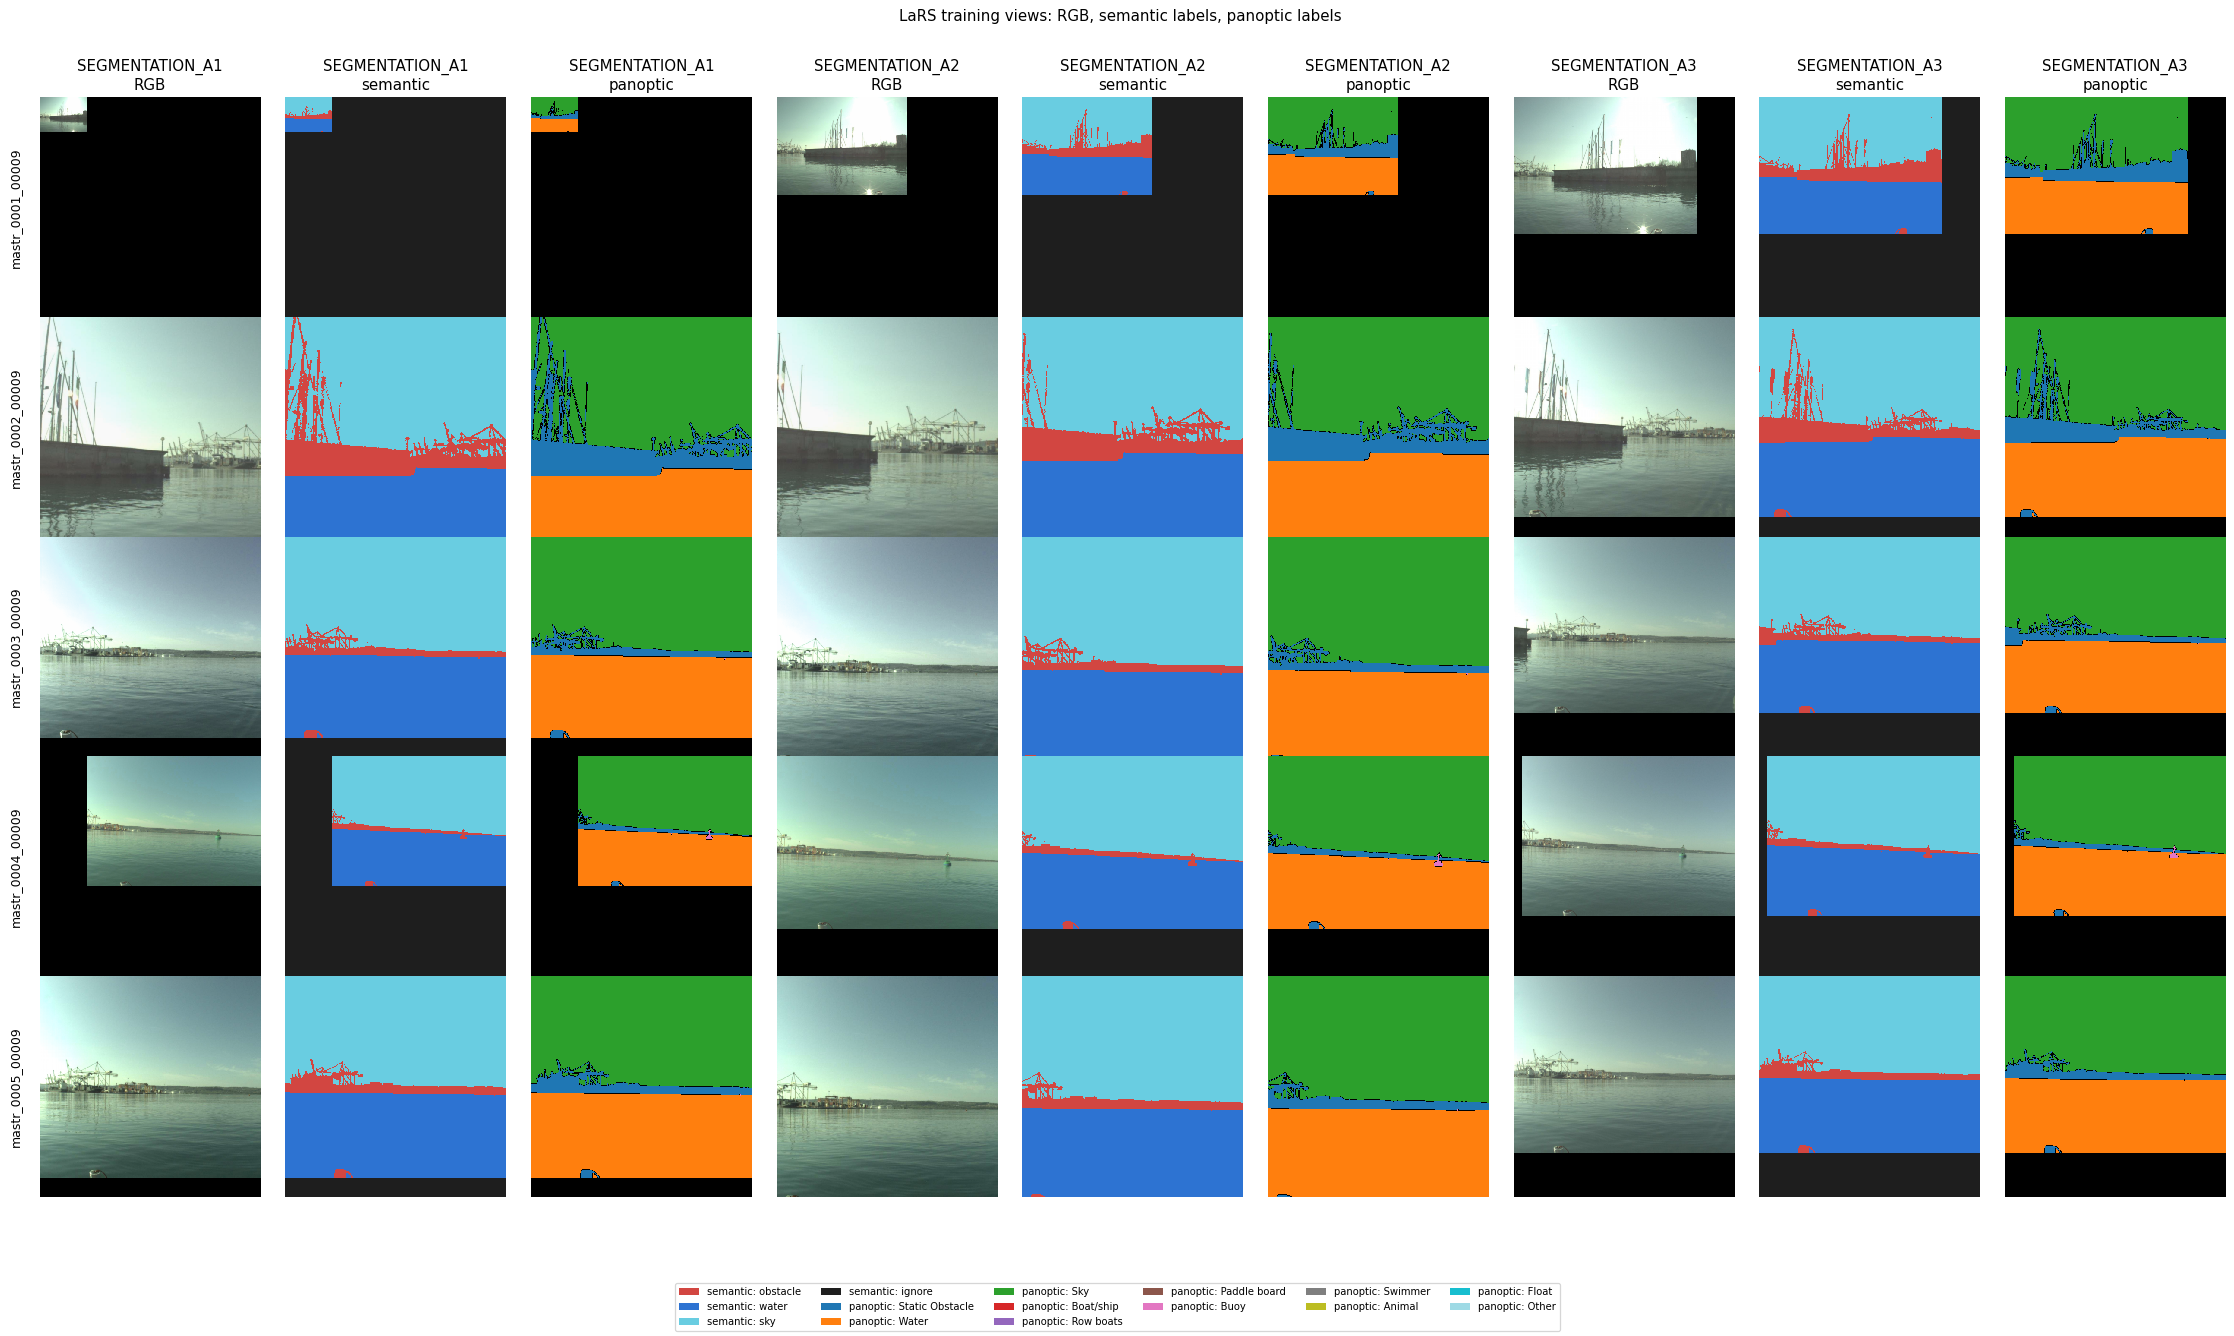
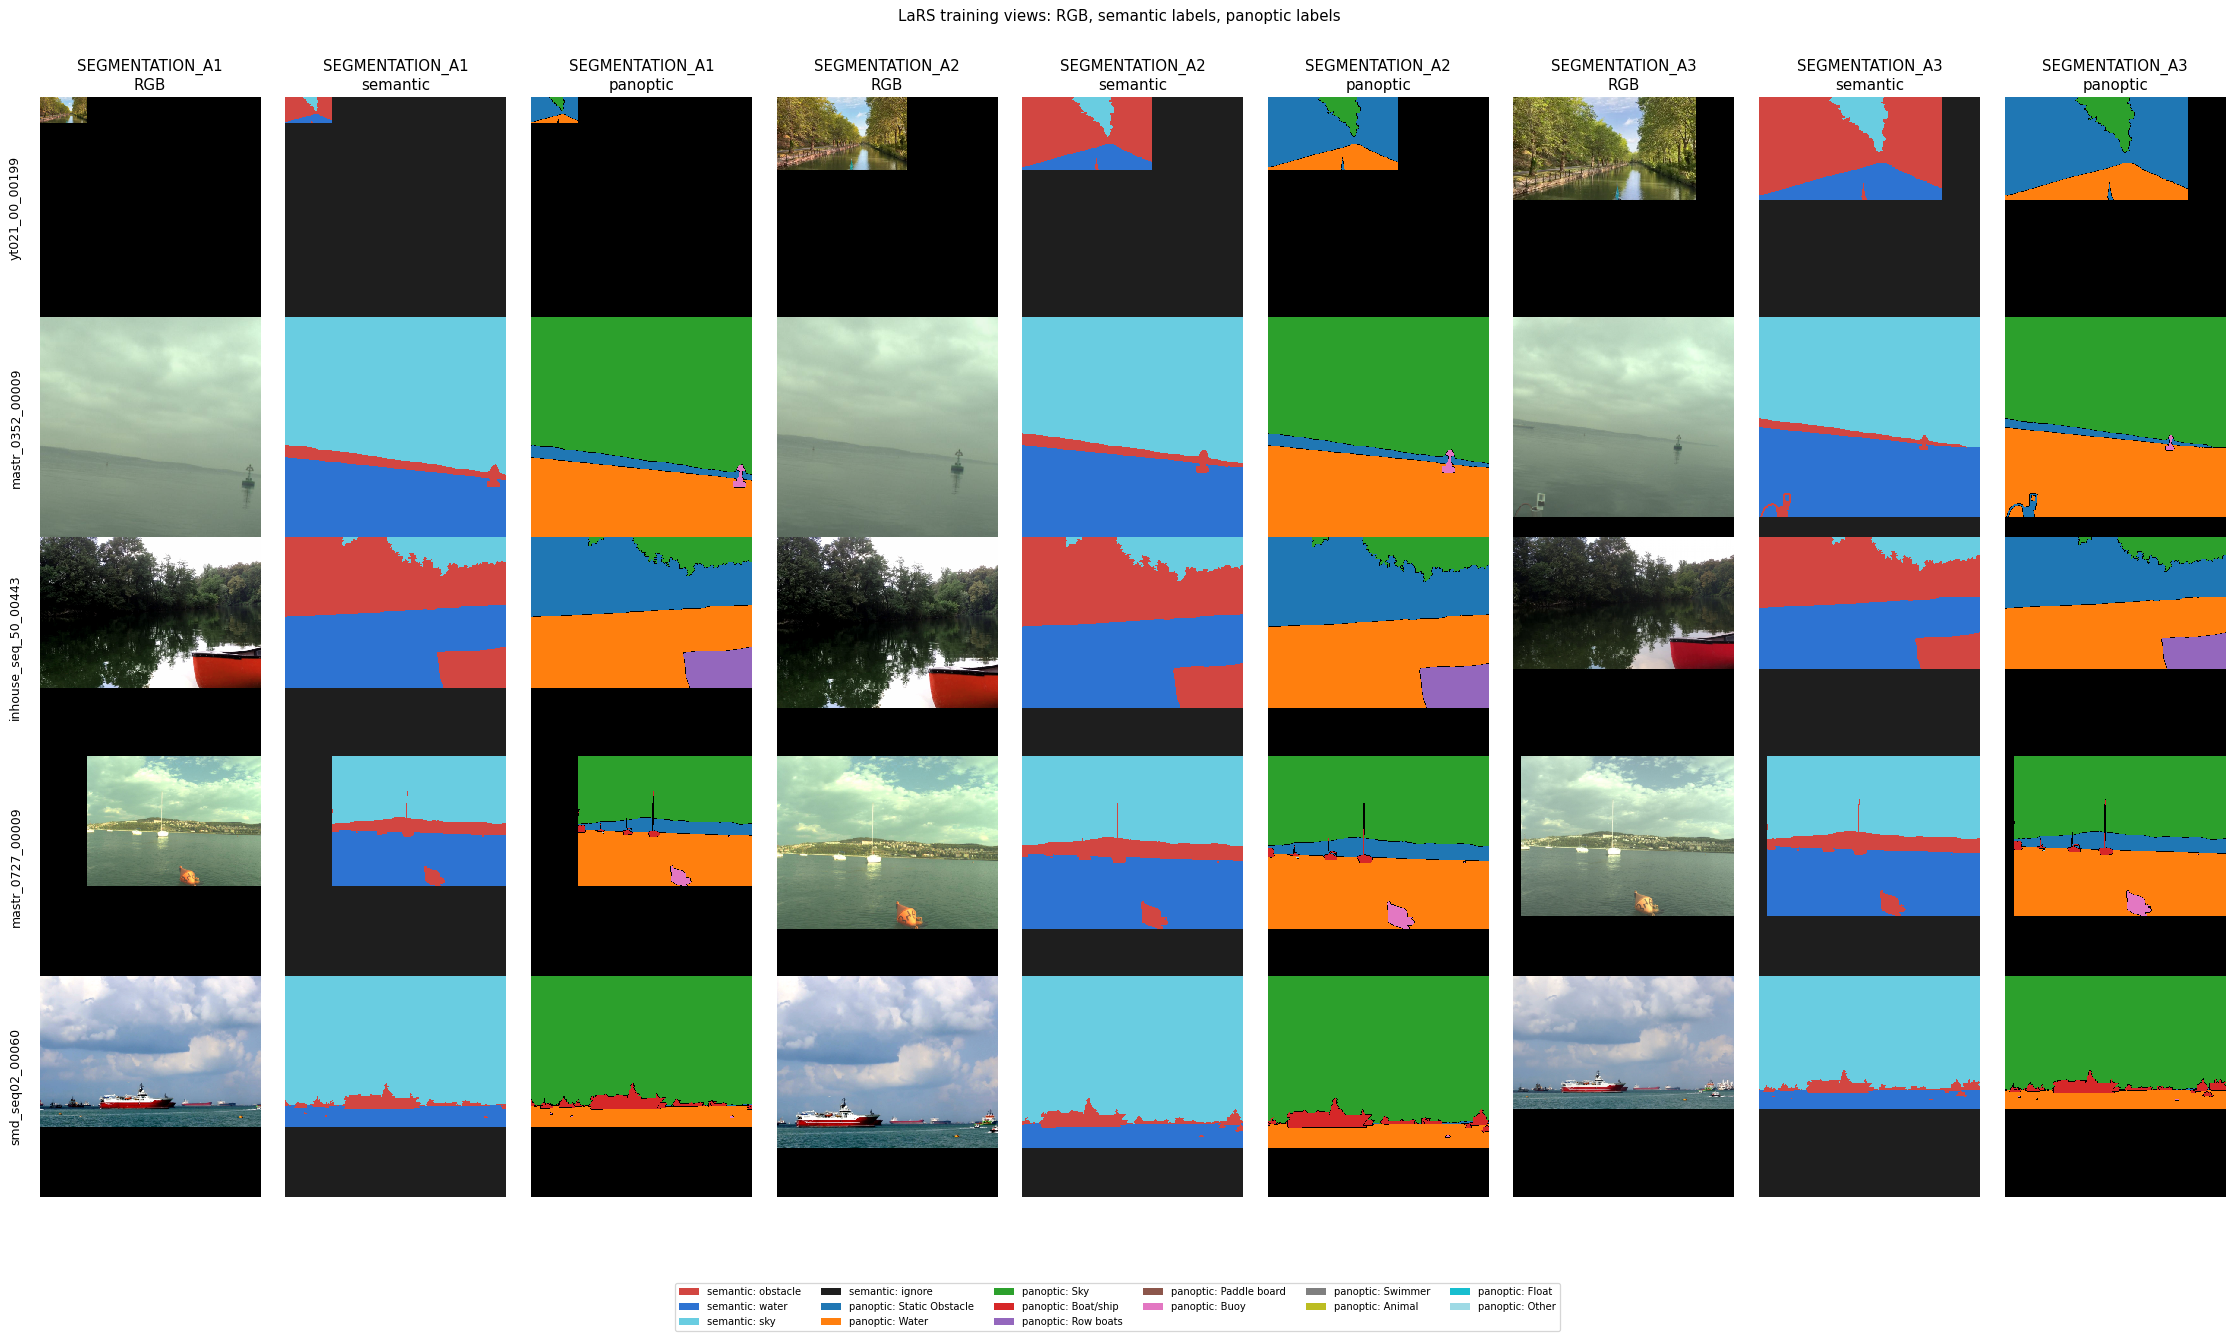
docs: sample diverse LaRS views and explain padding

diff --git a/tests/test_lars_local_example.py b/tests/test_lars_local_example.py
@@ -197,6 +197,43 @@ def test_example_limit_follows_author_list_order(tmp_path):
     ]
 
 
+def test_seeded_selection_pairs_random_source_ids_across_label_modes(tmp_path):
+    images, annotations = _archives(tmp_path / "archives", train_count=12)
+    semantic_dir = tmp_path / "semantic"
+    panoptic_dir = tmp_path / "panoptic"
+    semantic = build_inventory(
+        images, annotations, "train", semantic_dir, limit=5, sample_seed=2025
+    )
+    panoptic = build_inventory(
+        images,
+        annotations,
+        "train",
+        panoptic_dir,
+        limit=5,
+        labels="panoptic",
+        sample_seed=2025,
+    )
+    semantic_ids = semantic.report["splits"][0]["retained_ids"]
+    panoptic_ids = panoptic.report["splits"][0]["retained_ids"]
+    assert semantic_ids == panoptic_ids
+    assert len(semantic_ids) == 5
+    assert semantic_ids != [f"lars/v1.0.0/train/train_{i:04d}" for i in range(1, 6)]
+    semantic_source = json.loads((semantic_dir / "source.json").read_text())
+    panoptic_source = json.loads((panoptic_dir / "source.json").read_text())
+    assert semantic_source["sample_seed"] == panoptic_source["sample_seed"] == 2025
+    assert (
+        semantic_source["selected_ids_sha256"] == panoptic_source["selected_ids_sha256"]
+    )
+
+
+def test_sample_seed_requires_a_positive_limit(tmp_path):
+    images, annotations = _archives(tmp_path / "archives")
+    with pytest.raises(ValueError, match="sample_seed requires a limit"):
+        build_inventory(
+            images, annotations, "train", tmp_path / "missing-limit", sample_seed=17
+        )
+
+
 def test_plot_shows_five_paired_views_for_each_preset(tmp_path):
     matplotlib = pytest.importorskip("matplotlib")
     matplotlib.use("Agg", force=True)
@@ -206,12 +243,20 @@ def test_plot_shows_five_paired_views_for_each_preset(tmp_path):
             / "examples/vision/lars_segmentation_presets_plot.py"
         )
     )
-    images, annotations = _archives(tmp_path / "archives", train_count=5)
+    images, annotations = _archives(tmp_path / "archives", train_count=8)
     semantic_dir = tmp_path / "semantic"
     panoptic_dir = tmp_path / "panoptic"
-    build_inventory(images, annotations, "train", semantic_dir, limit=5)
     build_inventory(
-        images, annotations, "train", panoptic_dir, limit=5, labels="panoptic"
+        images, annotations, "train", semantic_dir, limit=5, sample_seed=2025
+    )
+    build_inventory(
+        images,
+        annotations,
+        "train",
+        panoptic_dir,
+        limit=5,
+        labels="panoptic",
+        sample_seed=2025,
     )
     output = tmp_path / "presets.png"
     plot_example["plot"](semantic_dir, panoptic_dir, output, seed=17)

diff --git a/examples/vision/lars_local_inventory.py b/examples/vision/lars_local_inventory.py
@@ -9,6 +9,7 @@ from __future__ import annotations
 import argparse
 import hashlib
 import json
+import random
 import re
 import shutil
 import stat
@@ -230,6 +231,7 @@ def build_inventory(
     *,
     limit: int | None = None,
     labels: str = "semantic",
+    sample_seed: int | None = None,
 ):
     """Create one strict, self-contained snapshot for train or validation."""
     if split not in {"train", "val"}:
@@ -238,6 +240,8 @@ def build_inventory(
         raise ValueError("labels must be semantic or panoptic")
     if limit is not None and (type(limit) is not int or limit <= 0):
         raise ValueError("limit must be a positive integer")
+    if sample_seed is not None and (type(sample_seed) is not int or limit is None):
+        raise ValueError("sample_seed requires a limit and must be an integer")
     output_dir = Path(output_dir).absolute()
     if output_dir.exists():
         raise FileExistsError(f"Output directory already exists: {output_dir}")
@@ -296,7 +300,11 @@ def build_inventory(
         if set(annotations_by_id) != set(images_by_id):
             raise ValueError("LaRS panoptic image and annotation IDs disagree")
 
-        selected = stems[:limit]
+        selected = (
+            stems[:limit]
+            if sample_seed is None
+            else random.Random(sample_seed).sample(stems, min(limit, len(stems)))
+        )
         max_segments = max(
             1,
             *(
@@ -442,6 +450,8 @@ def build_inventory(
                 "max_segments": max_segments,
                 "semantic_values": semantic_values,
             }
+            if sample_seed is not None:
+                source_record["sample_seed"] = sample_seed
             (output_dir / "source.json").write_text(
                 json.dumps(source_record, sort_keys=True, indent=2) + "\n",
                 encoding="utf-8",
@@ -466,6 +476,7 @@ def main() -> None:
     parser.add_argument("--split", choices=("train", "val"), required=True)
     parser.add_argument("--output-dir", type=Path, required=True)
     parser.add_argument("--limit", type=_positive_int)
+    parser.add_argument("--sample-seed", type=int)
     parser.add_argument(
         "--labels", choices=("semantic", "panoptic"), default="semantic"
     )
@@ -486,6 +497,7 @@ def main() -> None:
         args.output_dir,
         limit=args.limit,
         labels=args.labels,
+        sample_seed=args.sample_seed,
     )
     source_info = json.loads((args.output_dir / "source.json").read_text())
     options = (

diff --git a/docs/vision.md b/docs/vision.md
@@ -754,10 +754,12 @@ uv run python examples/vision/lars_local_inventory.py \
 
 `--labels semantic` and `--preset segmentation_a2` are the defaults. Change
 `--preset` to `segmentation_a3` or `segmentation_a1` for the lighter or stronger
-training view. Use `--split train` for training views and
-omit `--limit` to admit the complete selected split. Each invocation needs a
-new `--output-dir`; it will not replace
-an existing directory. The example reads the author's `image_list.txt` order,
+training view. Use `--split train` for training views. `--limit N` normally takes
+the first N entries in the author's image list; add `--sample-seed S` to draw N
+entries without replacement. Reuse S for matching semantic and panoptic
+inventories. Omit `--limit` to admit the complete selected split. Each
+invocation needs a new `--output-dir`; it will not replace an existing
+directory. The example uses the author's `image_list.txt` to identify records,
 reconciles all image, semantic-mask, panoptic-mask and annotation names, checks
 the decoded pairs, and then calls `admit_inventory`. Panoptic mode checks that
 the segment table references match the panoptic PNG and that its semantic
@@ -796,13 +798,13 @@ snapshots and run the complete [Matplotlib plotting example](../examples/vision/
 uv run python examples/vision/lars_local_inventory.py \
   --images-archive ~/Downloads/lars_v1.0.0_images.zip \
   --annotations-archive ~/Downloads/lars_v1.0.0_annotations.zip \
-  --split train --limit 5 --labels semantic \
+  --split train --limit 5 --sample-seed 2025 --labels semantic \
   --output-dir /tmp/lars-five-semantic
 
 uv run python examples/vision/lars_local_inventory.py \
   --images-archive ~/Downloads/lars_v1.0.0_images.zip \
   --annotations-archive ~/Downloads/lars_v1.0.0_annotations.zip \
-  --split train --limit 5 --labels panoptic \
+  --split train --limit 5 --sample-seed 2025 --labels panoptic \
   --output-dir /tmp/lars-five-panoptic
 
 uv run --with matplotlib python examples/vision/lars_segmentation_presets_plot.py \
@@ -819,7 +821,16 @@ images align. The panoptic panel colors categories and outlines individual
 segments. Matplotlib is needed only for this plotting command and is not a
 JustData dependency. Use fresh output paths when rerunning the commands.
 
-![Five LaRS samples with A1, A2, and A3 RGB views and their semantic and panoptic labels](assets/lars-five-segmentation-presets.png)
+The black area is the model's actual constant padding, with ignore or void
+labels in the corresponding masks. As in [Torchvision's ScaleJitter](https://docs.pytorch.org/vision/main/generated/torchvision.transforms.v2.ScaleJitter.html),
+the resize factor is relative to fitting the whole source image inside the
+512 × 512 crop. A1 samples factors from
+`[0.1, 2.0]`; at `0.1`, the image's longer side is only about 51 pixels, so
+the image occupies at most 1% of the crop. Almost half of A1's factor draws
+are below `1.0`, so padded views are expected. A2's minimum factor is `0.5`,
+and A3's is `0.8`, which limits this effect.
+
+![Five seeded random LaRS samples with A1, A2, and A3 RGB views and their semantic and panoptic labels](assets/lars-five-segmentation-presets.png)
 
 `snapshot/` contains the strict admitted inventory. `metadata.jsonl` maps
 numeric row IDs back to the complete source identity, scene attributes and
